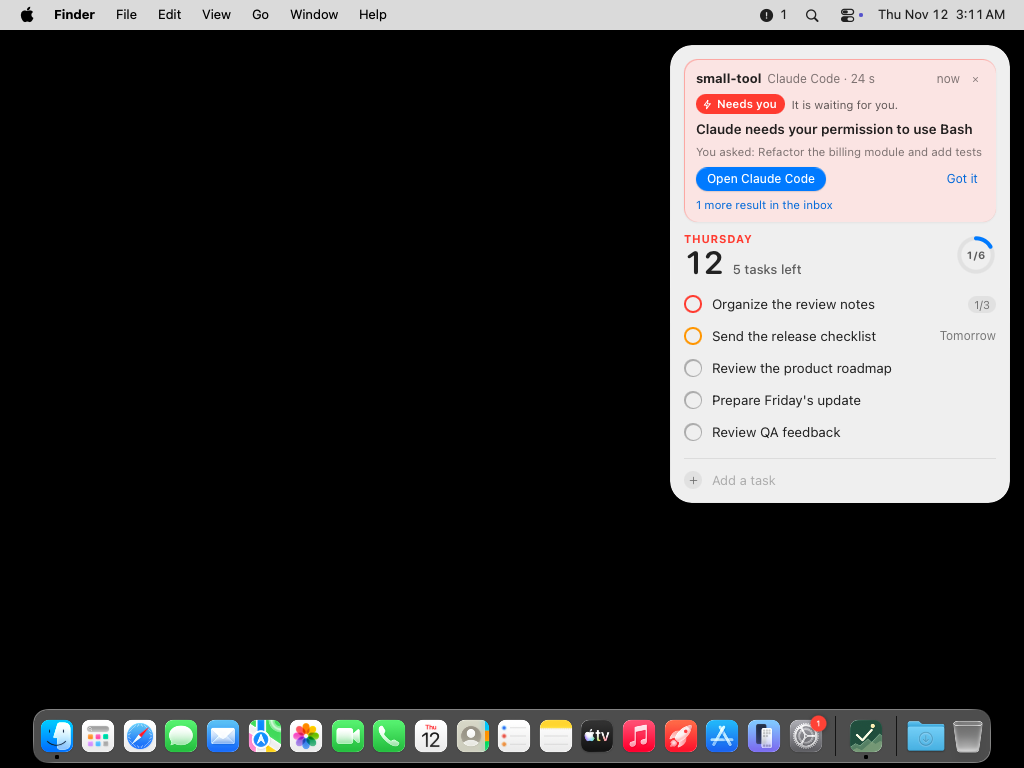
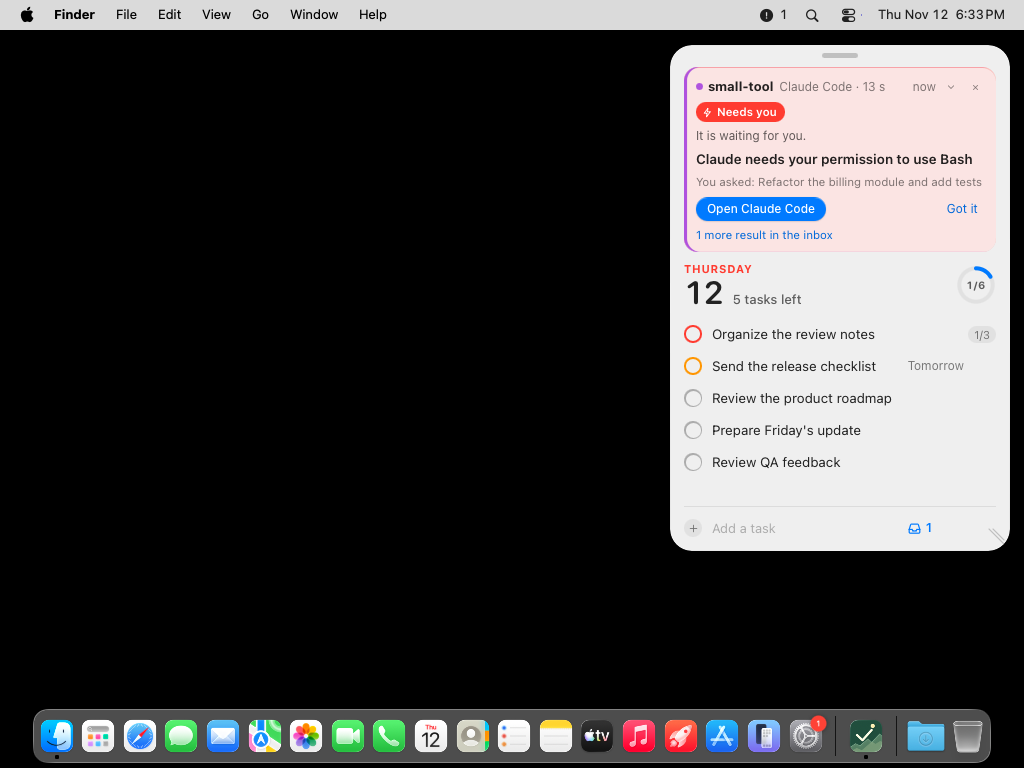
Refresh previews from the macOS build of 47e84d8
Adds the scheduling and connection-colour captures, and notes which commit
the stills come from.

Claude-Session: https://claude.ai/code/session_01UqGsHtGVF2hun6C6dWUoq8

diff --git a/README.md b/README.md
@@ -8,7 +8,7 @@ Shishi is a task list for people who work alongside AI. A small card sits in a c
 
 ![Shishi workspace with smart lists, the Today list and two Claude Code sessions in the Agents list](Previews/workspace.png)
 
-[Corner card](Previews/today.png) · [Brief report](Previews/report.png) · [Card on the desktop](Previews/desktop.png) · [Brief report in motion (video)](Previews/agent-report.mp4) · [First run and demo (video)](Previews/first-run-demo.mp4) · [Dark appearance](Previews/workspace-dark.png) · [Inbox](Previews/inbox.png)
+[Corner card](Previews/today.png) · [Brief report](Previews/report.png) · [Card on the desktop](Previews/desktop.png) · [Inbox](Previews/inbox.png) · [Planning several days](Previews/schedule.png) · [Connection colours](Previews/connections.png) · [Dark appearance](Previews/workspace-dark.png) · [Brief report in motion (video)](Previews/agent-report.mp4) · [First run and demo (video)](Previews/first-run-demo.mp4)
 
 ## Run on a Mac
 
@@ -21,7 +21,7 @@ Both are previews with local ad-hoc signing. They are not signed with a Develope
 
 If you are upgrading, Shishi keeps the same local workspace, inbox, and connection preferences. If an MCP client or Grok task was configured with the previous app’s absolute path, copy its configuration again after opening Shishi.app.
 
-The design reference for the Today board is [Youniverse’s work task list demo](https://v.douyin.com/qhlq-TKt314/). The previews above are captured from the running Mac app by the build workflow, with sample tasks.
+The design reference for the Today board is [Youniverse’s work task list demo](https://v.douyin.com/qhlq-TKt314/). The still previews above are captured from the running Mac app by the build workflow (commit `47e84d8`), with sample tasks. The two videos come from the browser test harness and predate the 1.7 repairs.
 
 ## Plan your day
 

diff --git a/Release/ux-repair-1.7.md b/Release/ux-repair-1.7.md
@@ -11,7 +11,7 @@ Work landed in four reviewable commits on `claude/charming-ride-cf9jlp`, in the 
 | C. Native window | `19f204f` | F15, F16 |
 | D. Scheduling and long-term data | `8abe8d8` | F11, F10, F14, F13, F17, F18 |
 | E. Delivery | `ef6d66f` | this document, data-survival check, native screenshots |
-| F. Native verification fixes | `4cb0845`, `1b24411`, and the commit that adds this row | defects listed under *Found only by the native run* |
+| F. Native verification fixes | `4cb0845`, `1b24411`, `47e84d8` | defects listed under *Found only by the native run* |
 
 **Test suites.** `node --test Tests/*.test.mjs` (logic), `python3 -m unittest discover -s Tests` (connectors), `node Tests/ui/check.mjs` (Chromium against a stand-in host; these prove page behaviour, **not** native window behaviour), and on the macOS runner `Tests/ci/launch_check.py`, `Tests/ci/window_check.py` and `Tests/ci/data_survival.py` against the built app.
 
